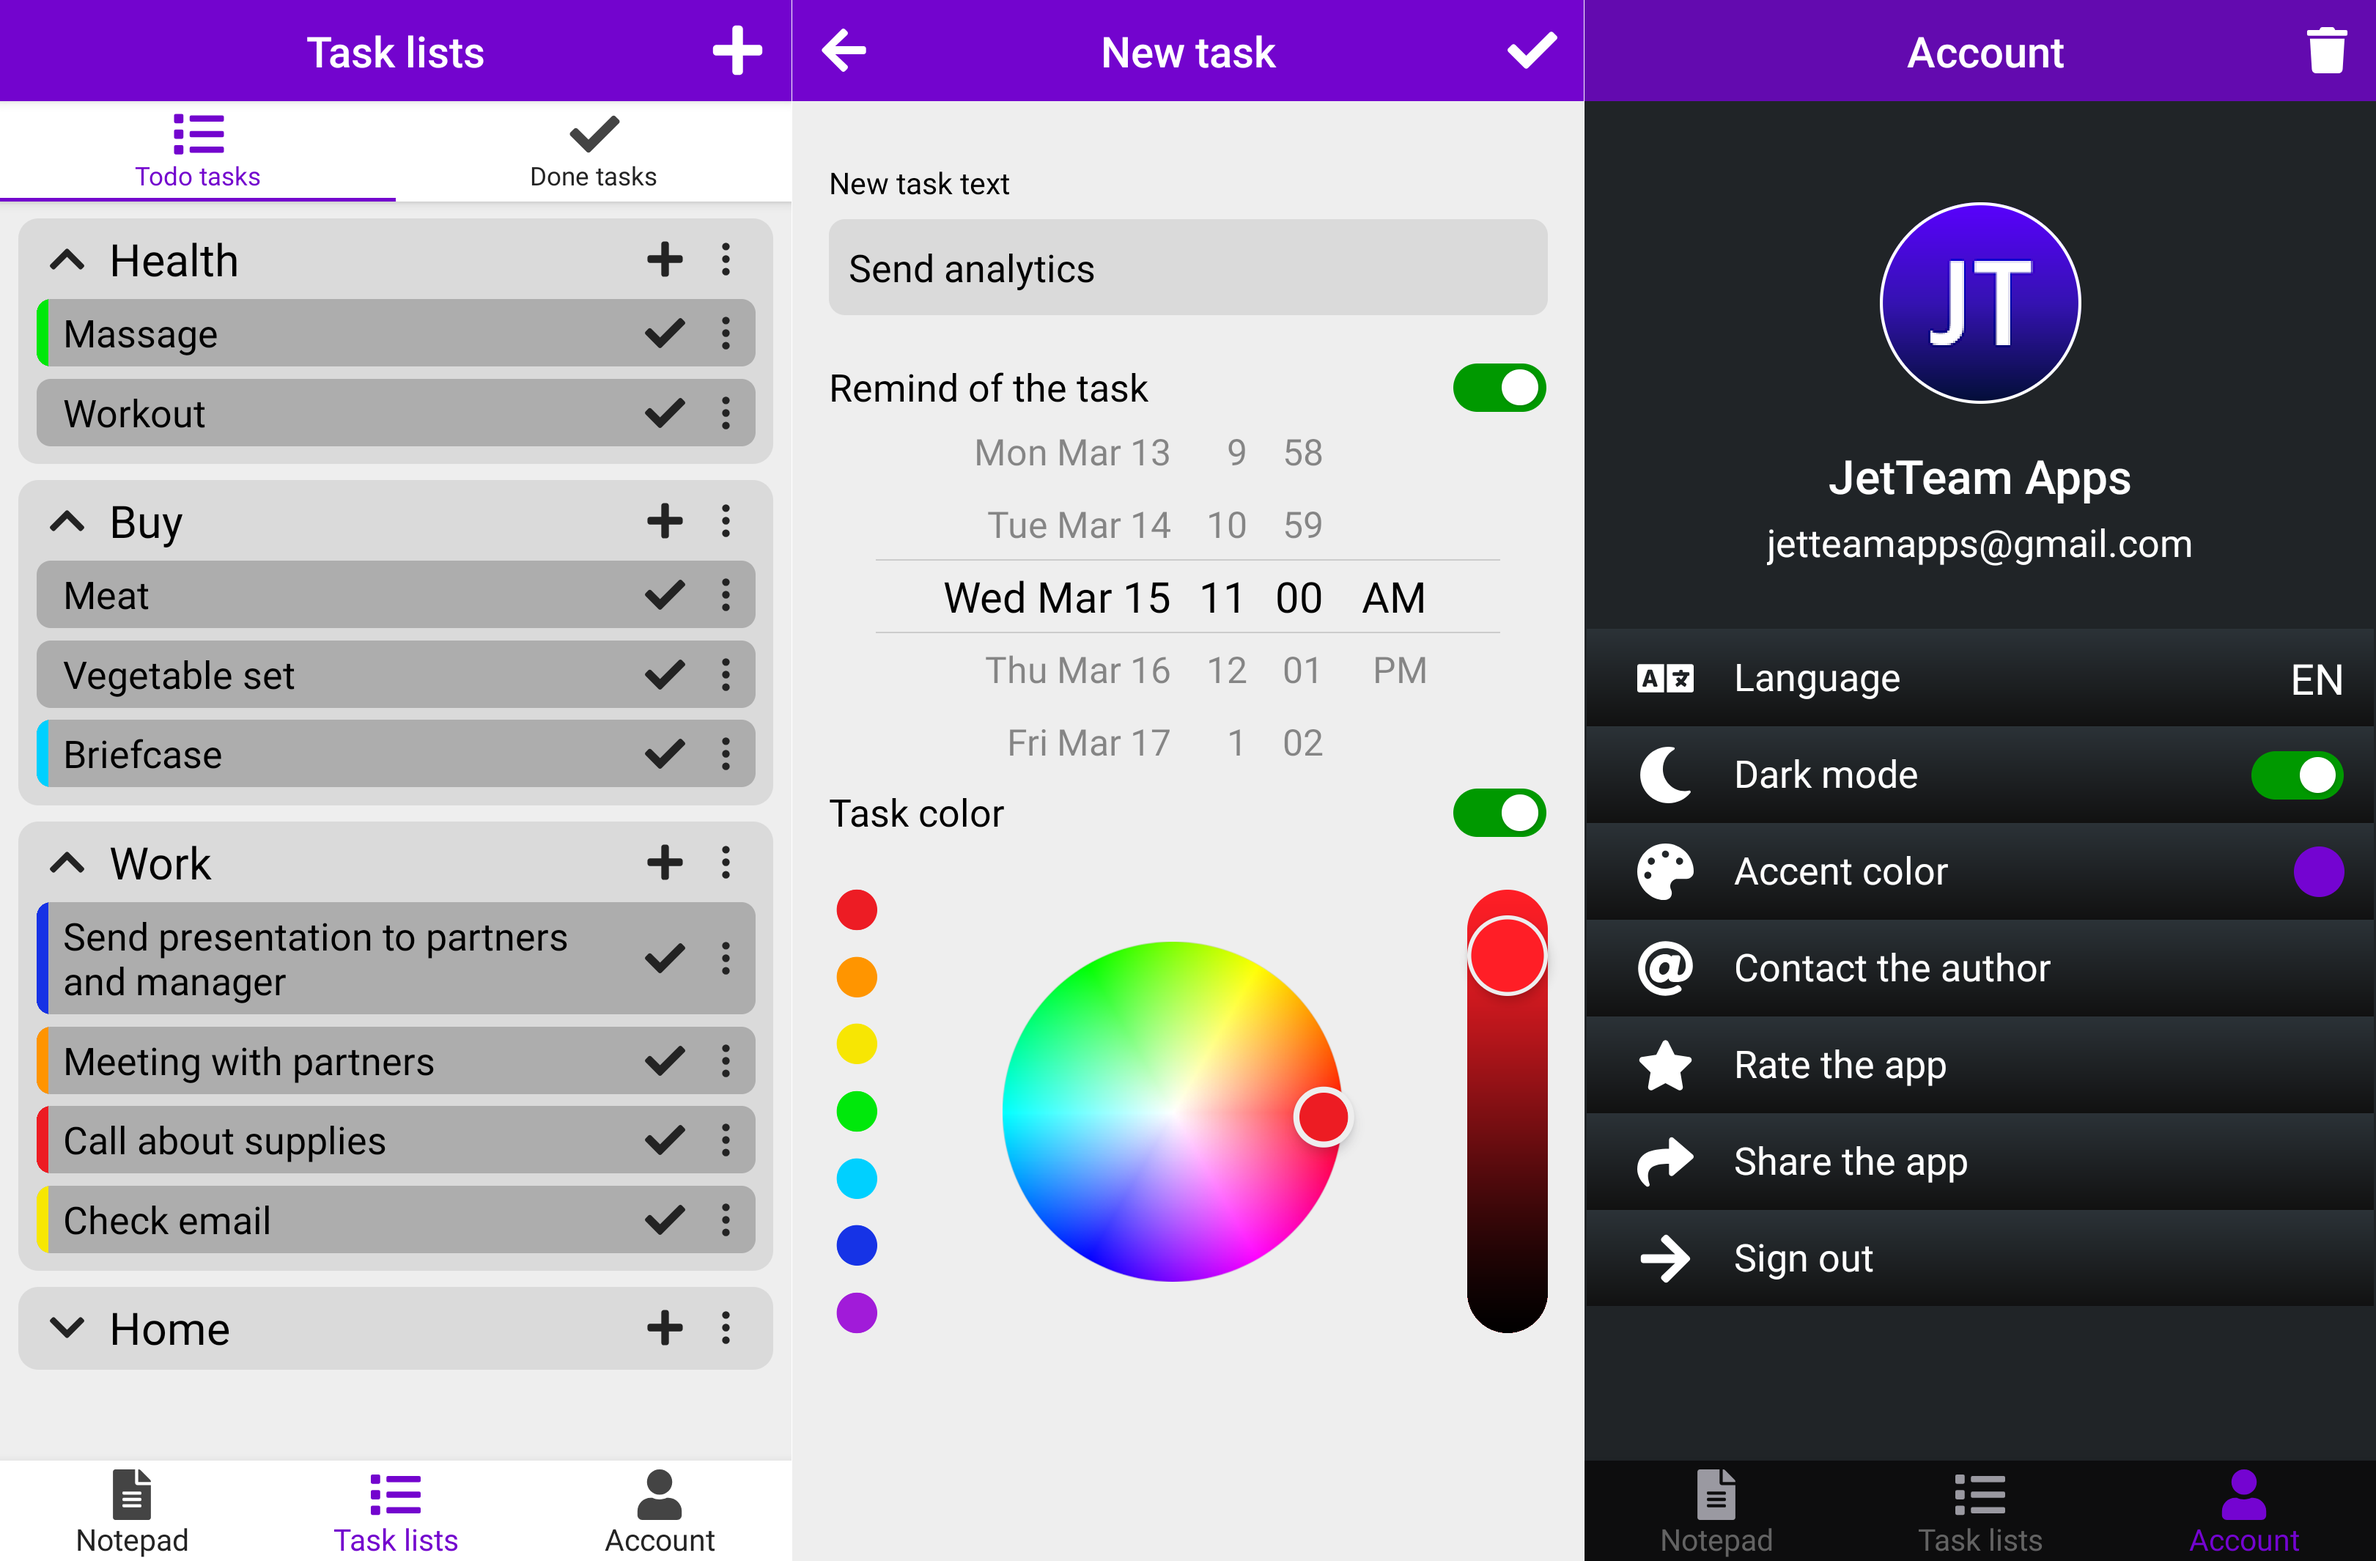
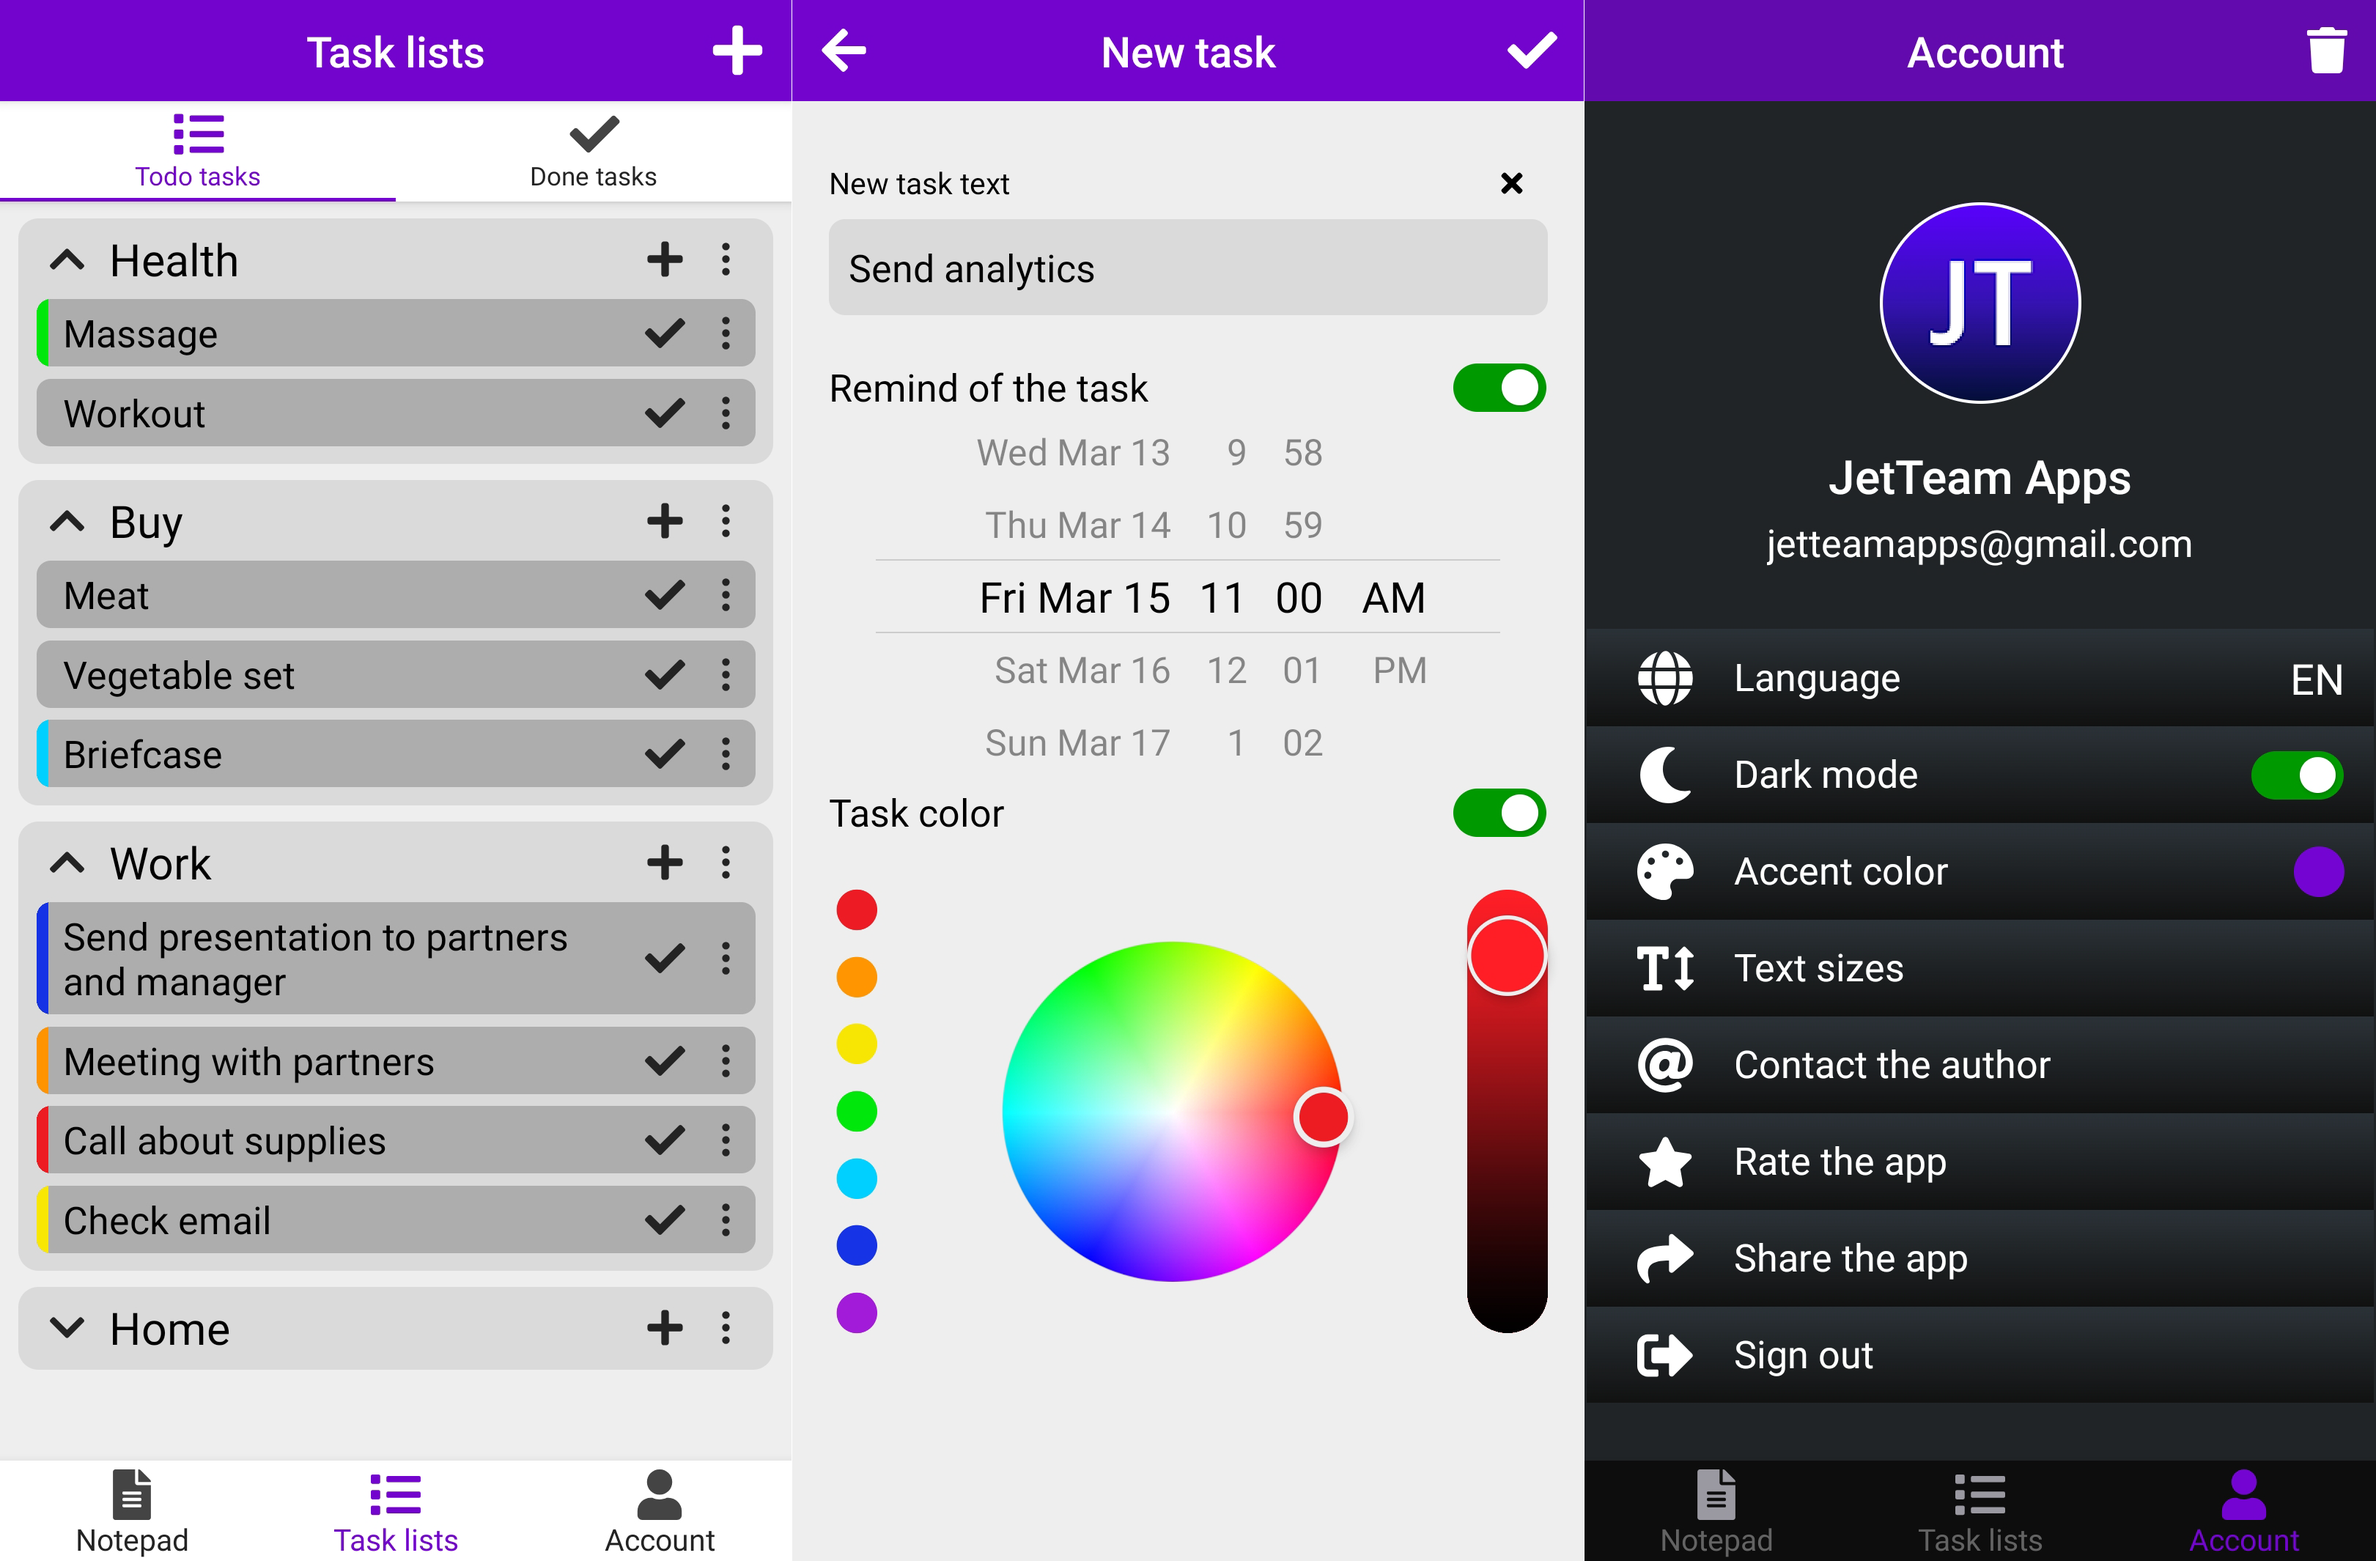
update readme, update preview, update app version

diff --git a/README.md b/README.md
@@ -1,11 +1,13 @@
 # ToDo List
-Mobile task management application for Android and iOS.
+Mobile task management application for Android.
 
 <a href="https://play.google.com/store/apps/details?id=com.jetteam.todolist"><img src="./Google_Play.png"></a>
 
 Stack: JavaScript, TypeScript, React Native, Redux, Redux-Saga, Firebase, i18next, Font Awesome, ESLint, Prettier.
 
-Implemented: adding task or task list, removing task or task list, renaming task or task list, collapsing and uncollapsing task lists, marking the completed task, marking the uncompleted task, snack bar, marking task with any color, receiving tasks notification at a certain date and time, screens for todo tasks and for done tasks, notepad screen, sign in with Google and Facebook, user data storage and synchronizing with cloud database, translations into 15 languages, change app language button, dark theme button, app accent color picker button, contact the author button, rate app button, share app button, delete account button, internet connection checking, splash screen.
+The application requires the presence of Google services on the device.
+
+Implemented: adding task and task list, removing task and task list, renaming task and task list, collapsing and uncollapsing task lists, sorting settings for task list, marking the completed task, marking the uncompleted task, snack bar, marking task with any color, creation date and modification date for task, receiving tasks notification at a certain date and time, screens for todo tasks and for done tasks, notepad screen, sign in with Google account and Email, user data storage and synchronizing with cloud database, translations into 15 languages, change app language, dark theme, app accent color picker, adjust text sizes, contact the author ability, rate app ability, share app ability, delete account ability, internet connection checking, splash screen.
 
 ![ToDo List preview](./preview.png)
 
